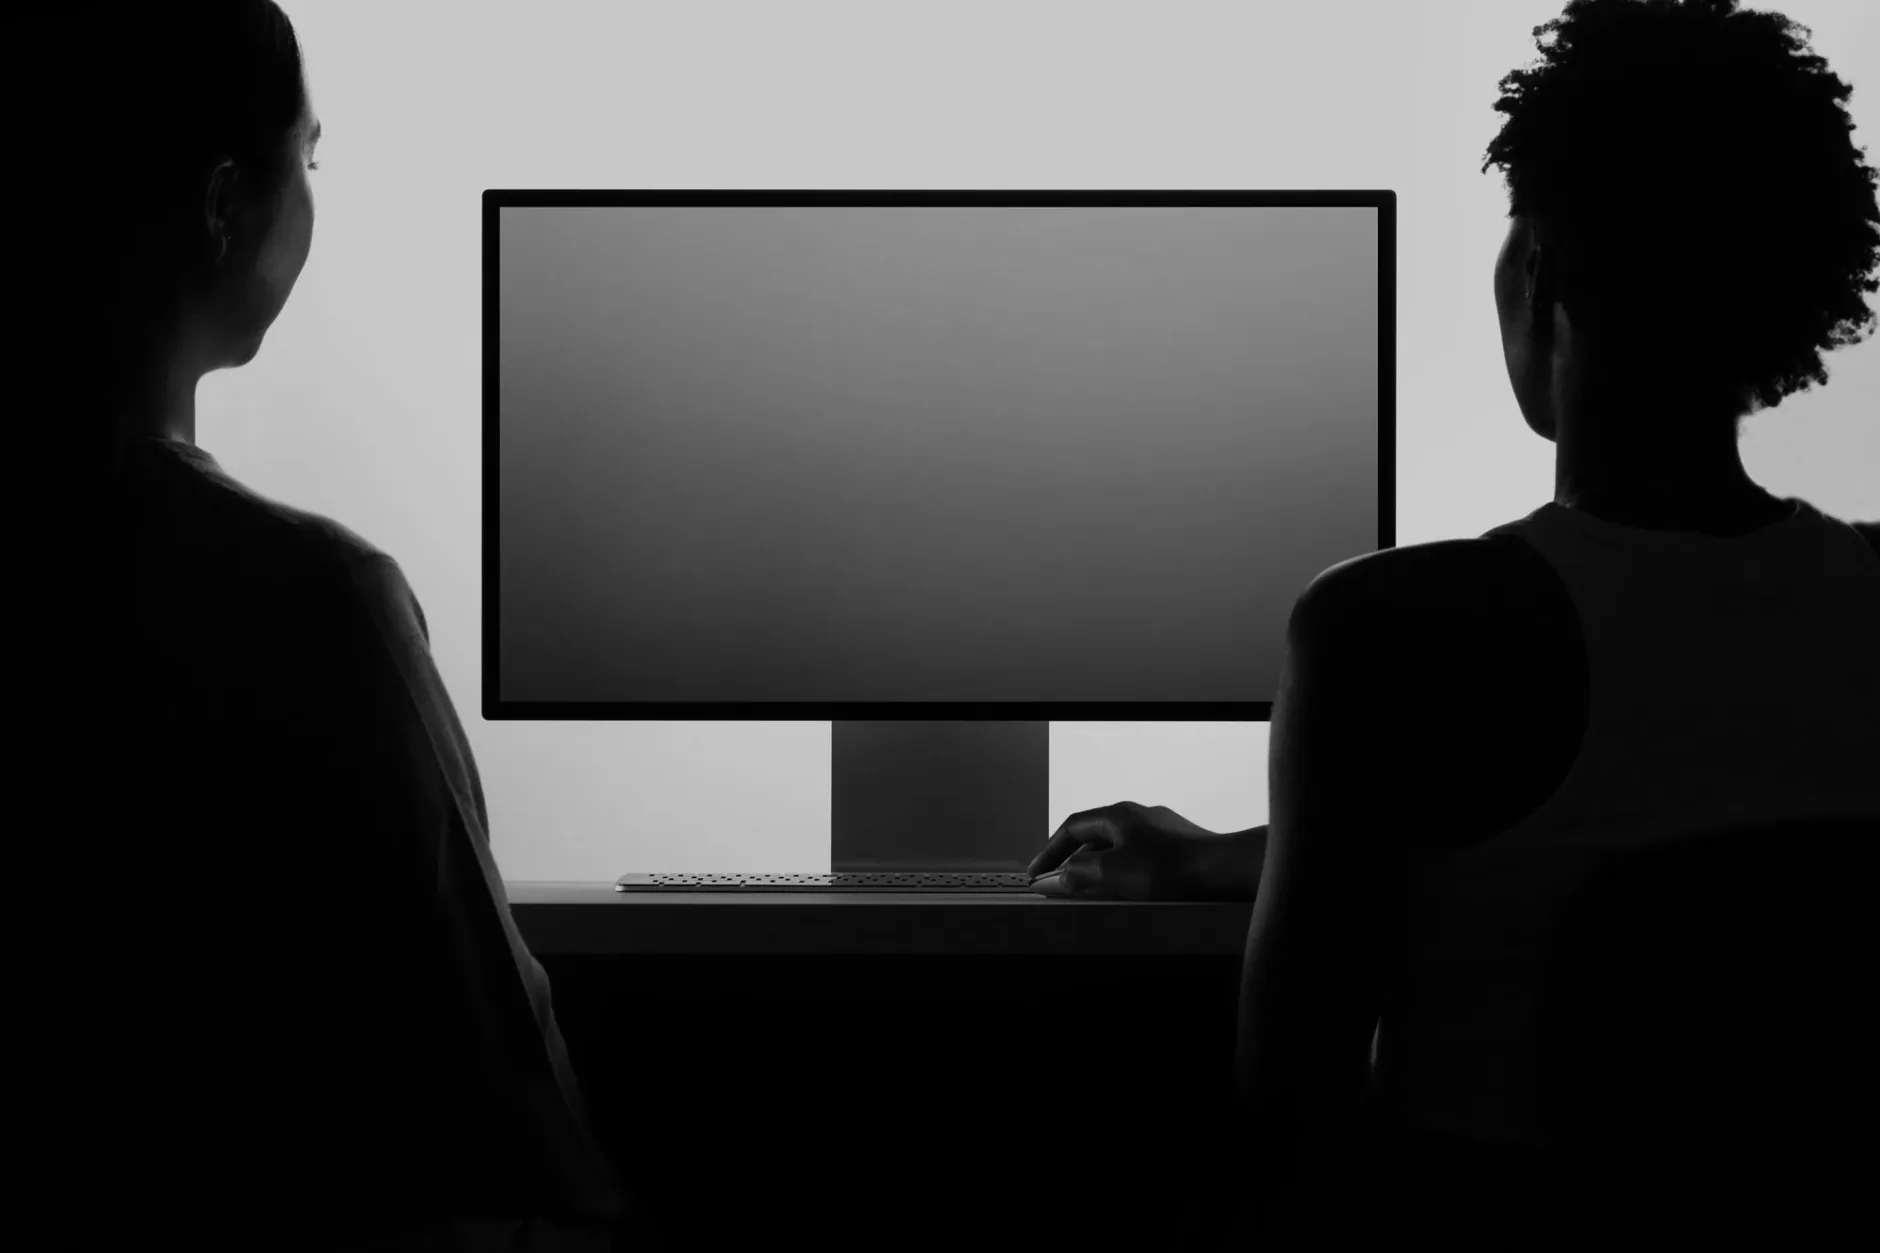
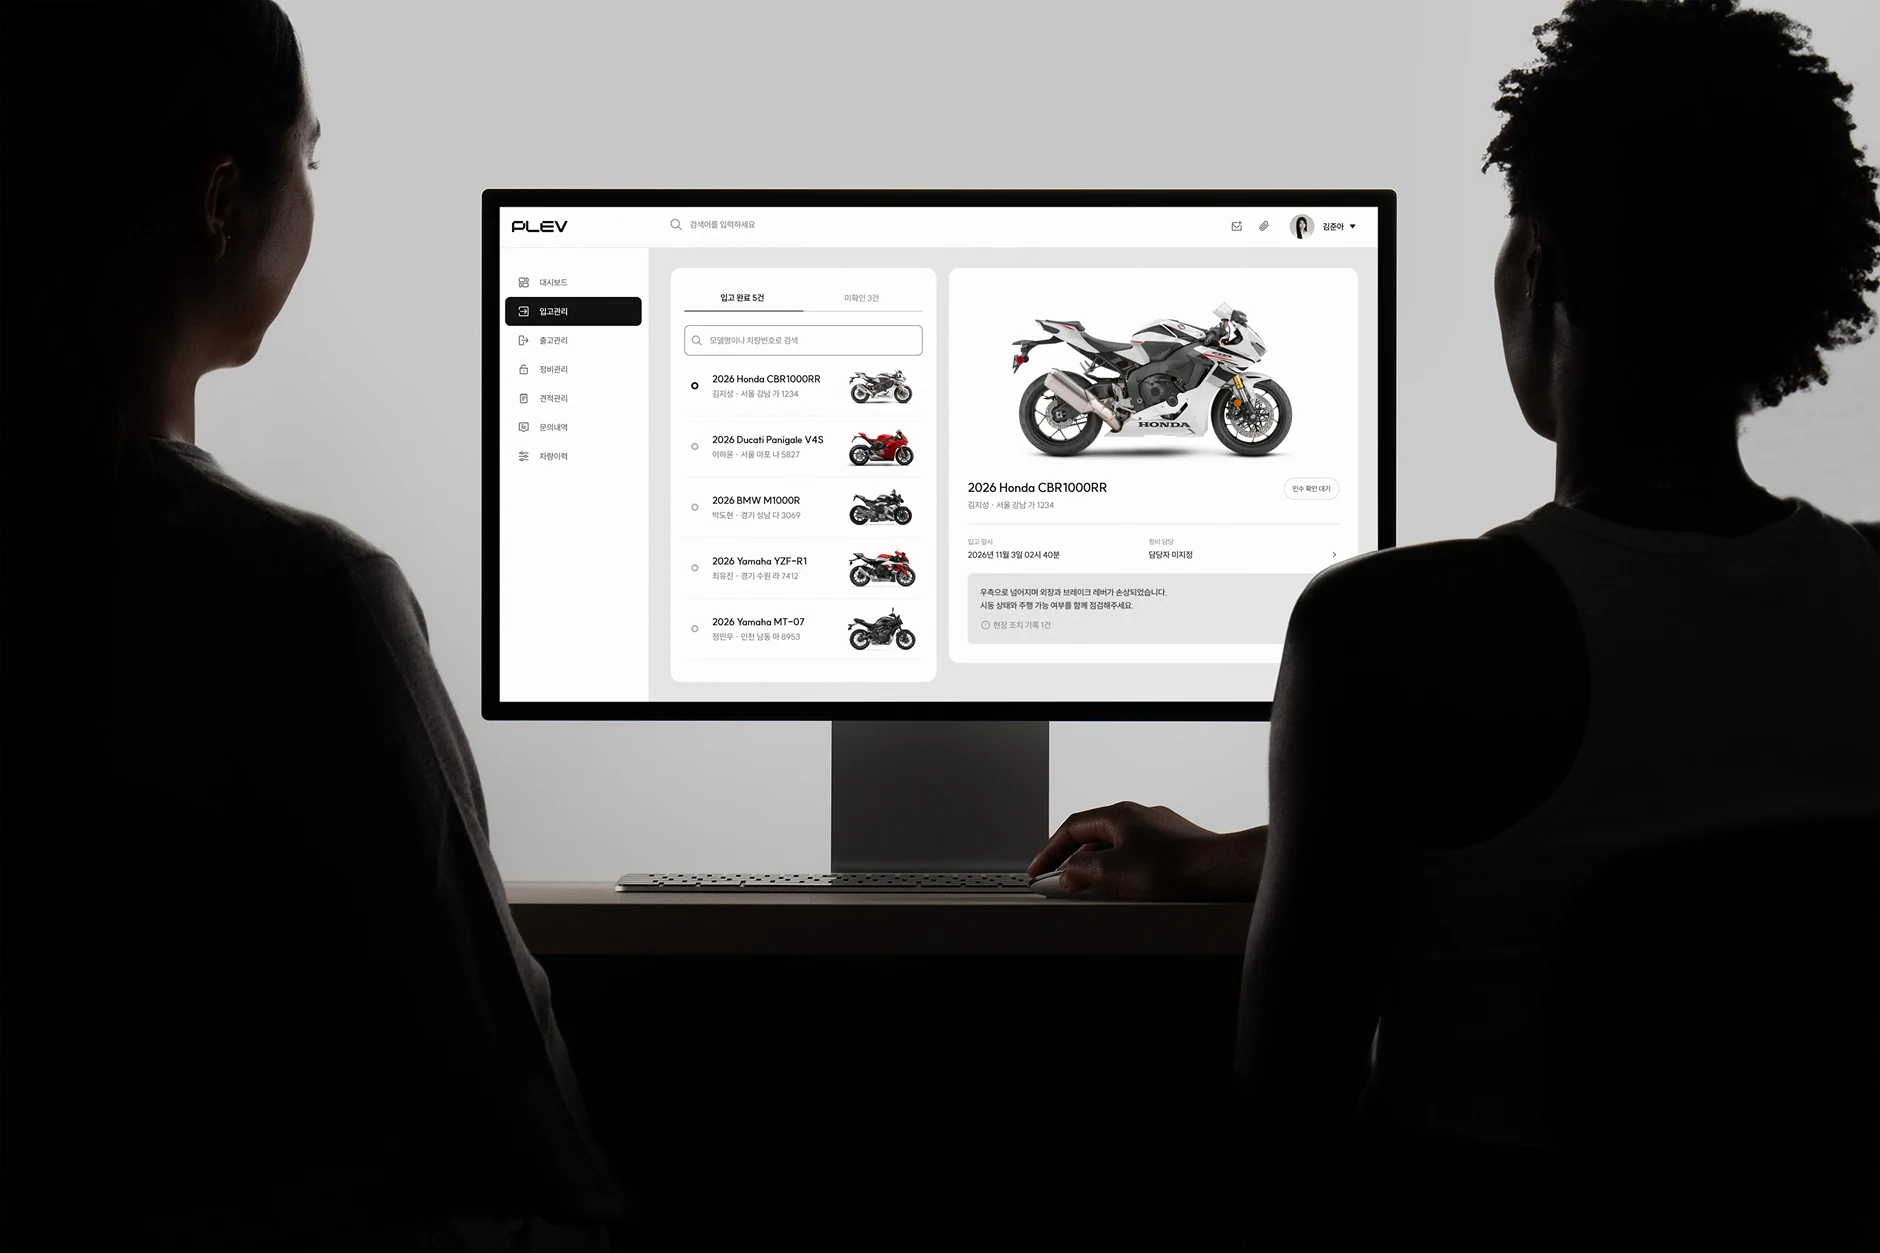
Update service and restore visuals

diff --git a/src/App.jsx b/src/App.jsx
@@ -127,7 +127,9 @@ function ServiceCards() {
       <img className="garage-background" src="/images/12-card-right.webp" alt="" />
       <img className="garage-floating" src="/images/13-card-floating.png" alt="KP 모토라드 강남, 4km" />
     </article>
-    <div className="service-motion-placeholder">모션 영상 들어갈 자리</div>
+    <div className="service-motion-placeholder">
+      <img src="/images/service-motion-control.webp" alt="TRANSPORT CONTROL 화면" />
+    </div>
   </section>
 }
 
@@ -150,7 +152,7 @@ function LoadingScreen({ onComplete }) {
   </div>
 }
 
-const sectionStops = [0, 1772, 2764, 3825, 5353, 6707, 7782, 9908, 11340, 12472, 13667, 14893, 16163, 18323, 19400, 20526, 21851, 23046, 24800, 26006, 27743]
+const sectionStops = [0, 1772, 2764, 3825, 5353, 6707, 7782, 9908, 11340, 12472, 13667, 14893, 16223, 18323, 19400, 20526, 21851, 23046, 24800, 26006, 27743]
 
 function SectionNavigator({ lenisRef }) {
   const destinationIndex = useRef(null)
